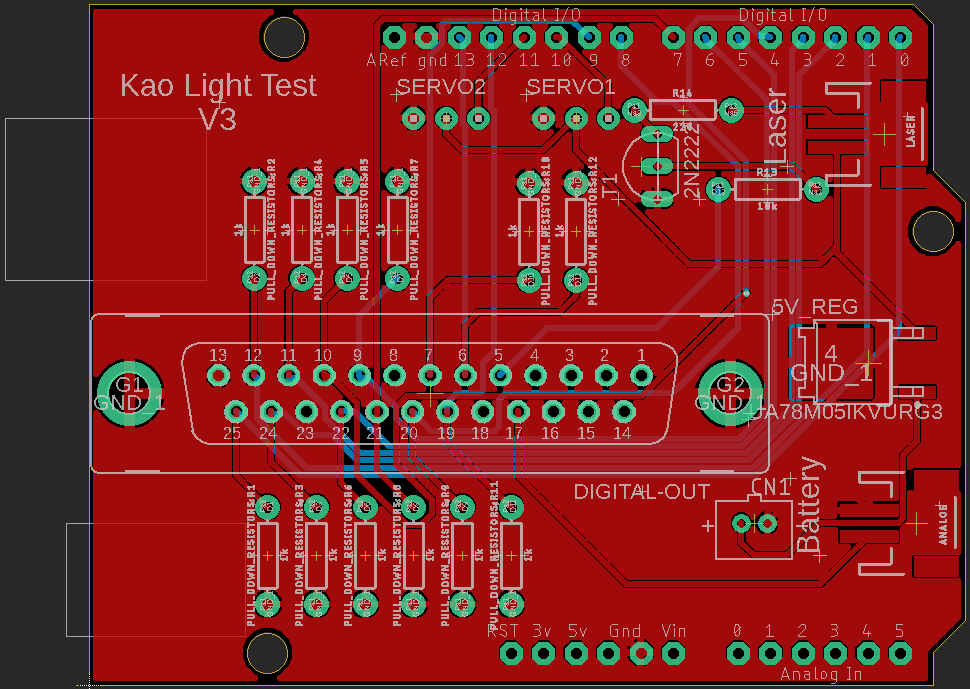
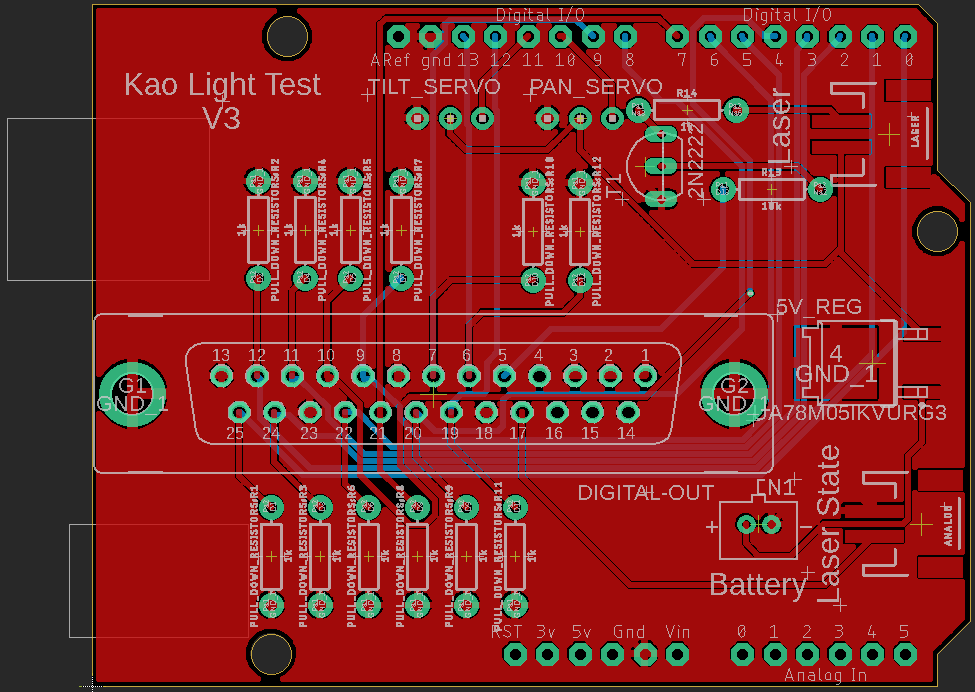
docs: Updates the PCB and ReadMe to be clearer
The PCB was updated so that the servos are labeled as what they are
instead of as numbers. One resistor was also updated and all other
digital grounds were connected to the ground plane.

diff --git a/docs/README.md b/docs/README.md
@@ -52,7 +52,7 @@ The Kao Light Test repository involves a set of scripts and an app used to analy
   
   ## Arduino Setup
   
-  Plug in the panning servo to signal pin 10 (servo 1 on the shield) and the tilting servo to signal pin 11 (servo 2 on the shield). **Note on older PCB's that in the image of the PCB these are labelled correctly, but in the current PCB, these servos are switched. If the PCB is reprinted to correct this, then this note should be deleted.** Make sure that the 7.8 V LiPo battery is also plugged in and check that the laser is not on automatically. If it is, you may need to adjust the shield or check that the laser connector is not touching metal. Plug in the USB cable to the Arduino to power it.
+  Plug in the panning servo to signal pin 10 and the tilting servo to signal pin 11. **Note on older PCB's that in the image of the PCB these are labelled as servo 2 and servo 1 respectively, but in the current PCB, these servos are labelled as what angle they change. If the PCB is reprinted, then this note should be deleted.** Make sure that the 7.8 V LiPo battery is also plugged in and check that the laser is not on automatically. If it is, you may need to adjust the shield or check that the laser connector is not touching metal. Plug in the USB cable to the Arduino to power it.
   
   Make sure to plug in the digital output cable from the Grapevine to the shield. This cable sends out the 12 bit digital signal to control for the 4096 possible angle values (128 for panning and 32 for tilting), a 13th signal to turn the laser on or off, and a fourteenth for signalling to an analog input when the laser was turned on for matching to the foot pedal data.
 
